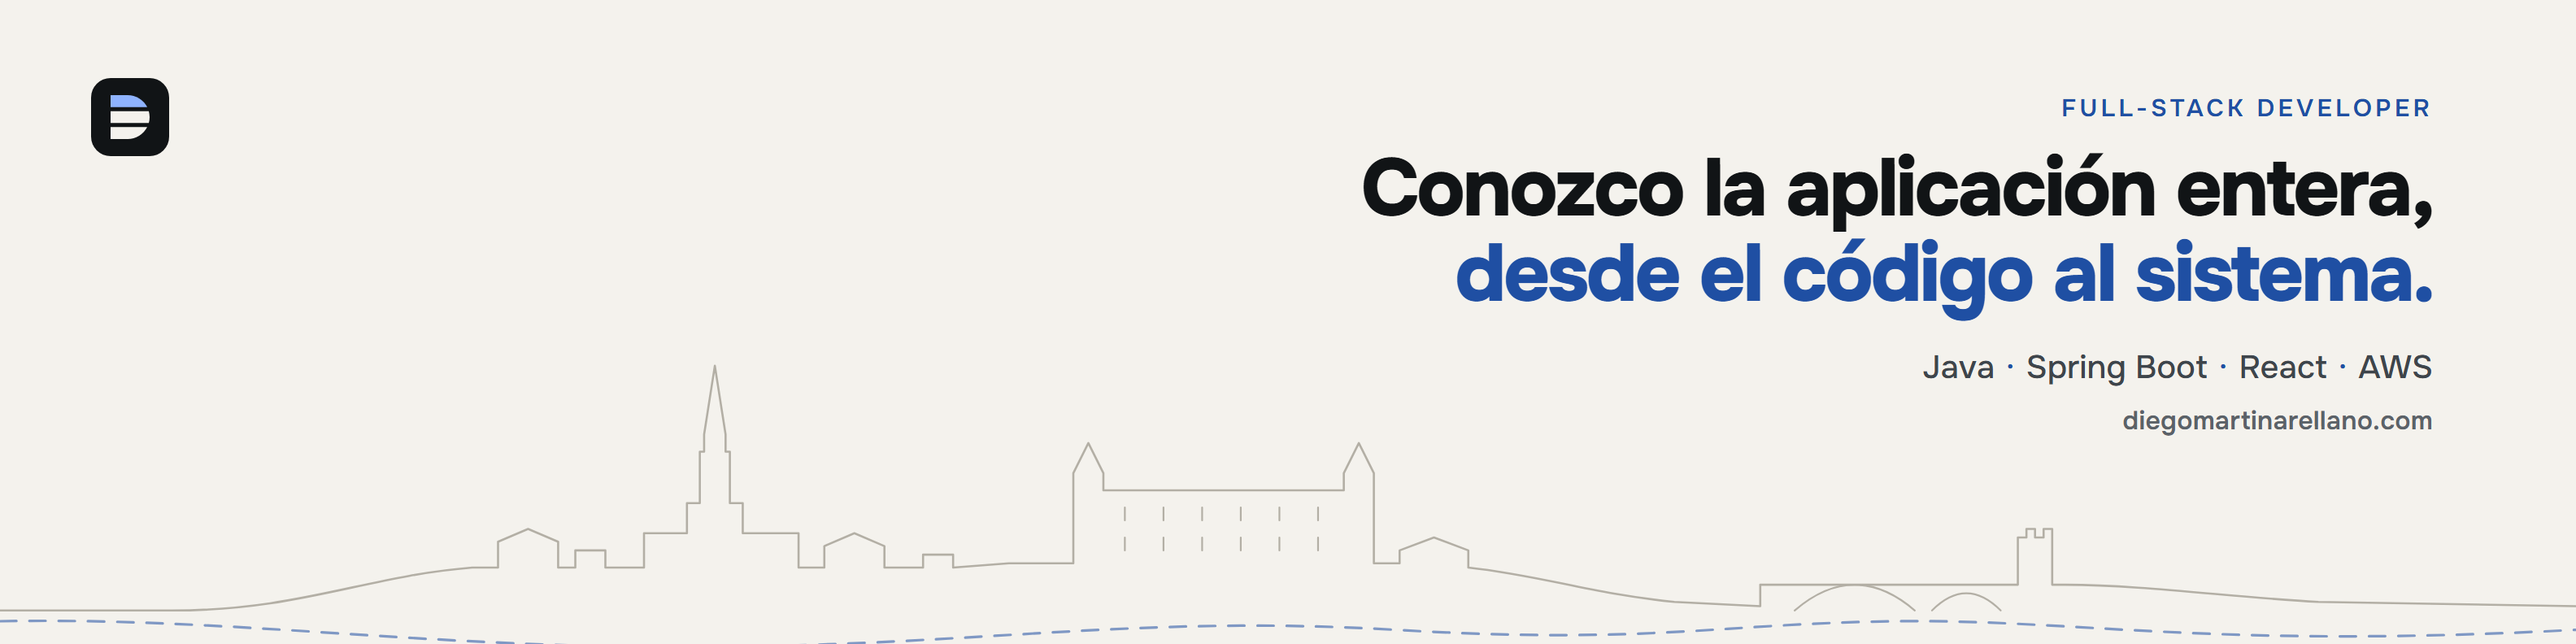
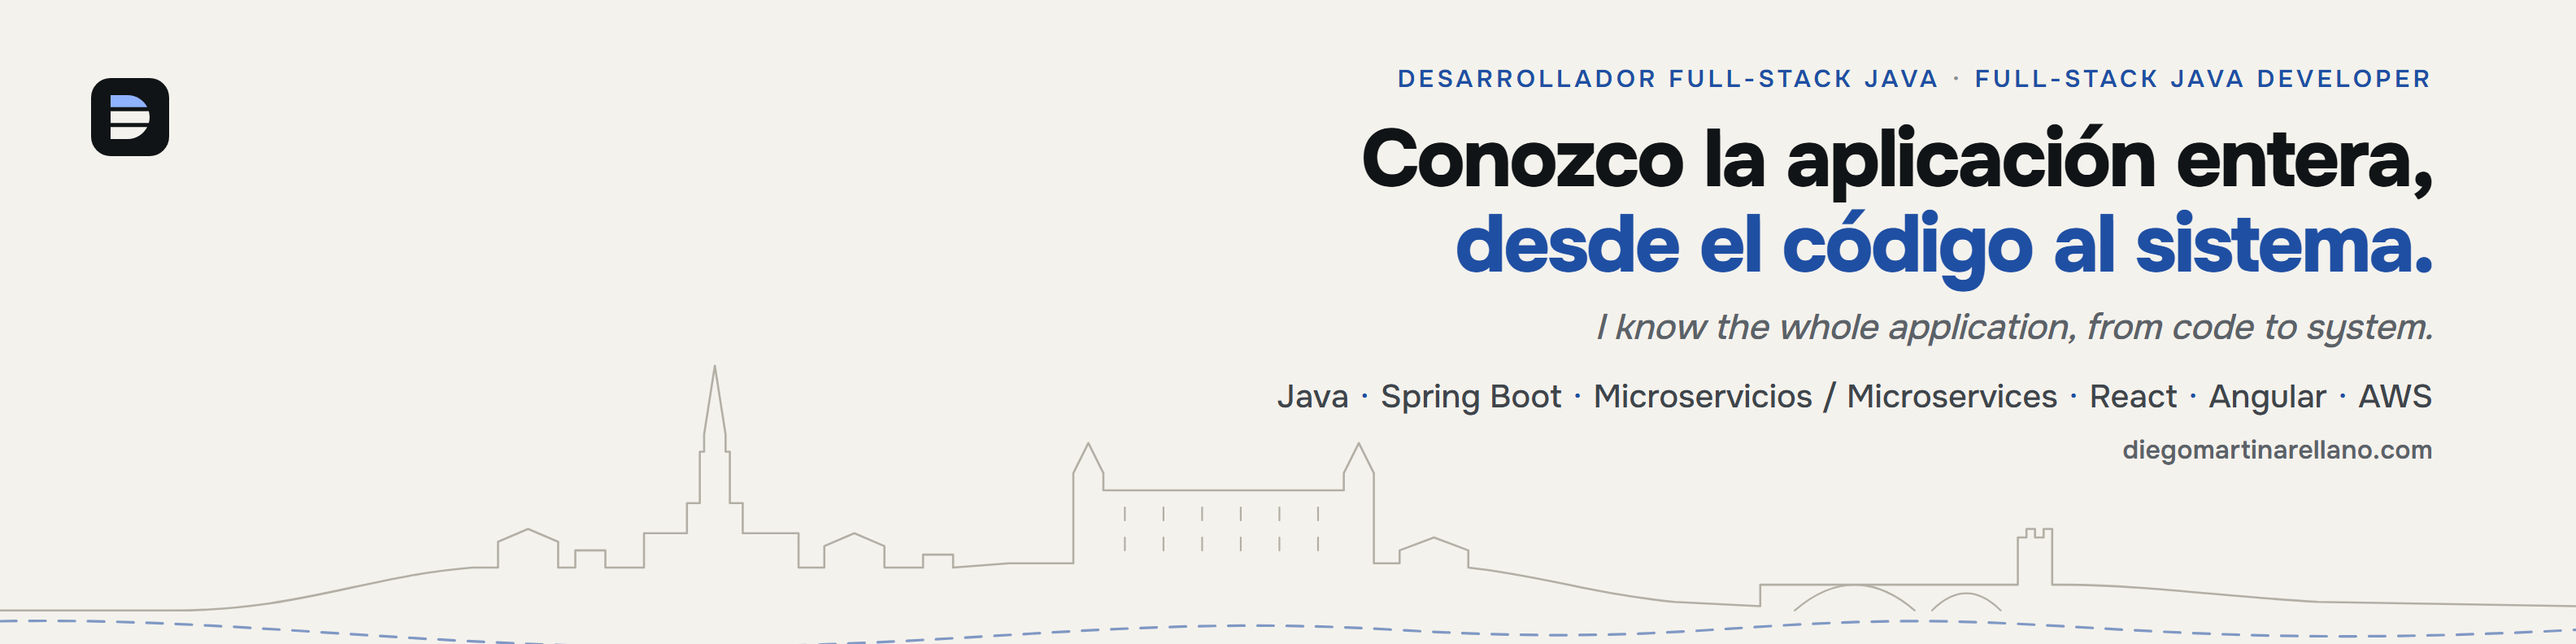
docs: portada bilingüe, JavaScript en tecnologías y frase de formación revisada

Changed region(s): [[0.5, 0.0909, 0.9688, 0.7273]]

diff --git a/README.md b/README.md
@@ -25,7 +25,7 @@ Me apasiona la tecnología. Estoy especializado en el desarrollo full-stack y la
 
 Desarrollo aplicaciones web con **Java, Spring Boot, React y AWS**. Actualmente trabajo en un proyecto de **Riesgos de Mercado de BBVA**. He trabajado en consultoría para banca, logística y administración pública, siempre en equipos ágiles.
 
-Me formo de manera continua para mejorar mis habilidades y adaptarme a nuevas herramientas y metodologías. Me motiva participar en proyectos de alto impacto.
+Me motiva participar en proyectos de alto impacto. Además, sigo formándome de manera continua para mejorar mis habilidades y adaptarme a nuevas herramientas y metodologías.
 
 <br>
 
@@ -34,7 +34,7 @@ Me formo de manera continua para mejorar mis habilidades y adaptarme a nuevas he
 | Área | Tecnologías |
 |---|---|
 | **Backend** | ![Java](https://img.shields.io/badge/Java-ED8B00?style=flat-square&logo=openjdk&logoColor=white) ![Spring Boot](https://img.shields.io/badge/Spring%20Boot-6DB33F?style=flat-square&logo=springboot&logoColor=white) ![Microservicios](https://img.shields.io/badge/Microservicios-30363D?style=flat-square) ![APIs REST](https://img.shields.io/badge/APIs%20REST-30363D?style=flat-square&logo=openapiinitiative&logoColor=white) ![Spring Security](https://img.shields.io/badge/Spring%20Security-6DB33F?style=flat-square&logo=springsecurity&logoColor=white) ![Hibernate / JPA](https://img.shields.io/badge/Hibernate%20%2F%20JPA-59666C?style=flat-square&logo=hibernate&logoColor=white) ![Maven](https://img.shields.io/badge/Maven-C71A36?style=flat-square&logo=apachemaven&logoColor=white) ![Node.js](https://img.shields.io/badge/Node.js-5FA04E?style=flat-square&logo=nodedotjs&logoColor=white) ![Python](https://img.shields.io/badge/Python-3776AB?style=flat-square&logo=python&logoColor=white) |
-| **Frontend** | ![React](https://img.shields.io/badge/React-20232A?style=flat-square&logo=react&logoColor=61DAFB) ![TypeScript](https://img.shields.io/badge/TypeScript-3178C6?style=flat-square&logo=typescript&logoColor=white) ![Angular](https://img.shields.io/badge/Angular-DD0031?style=flat-square&logo=angular&logoColor=white) ![HTML](https://img.shields.io/badge/HTML-E34F26?style=flat-square&logo=html5&logoColor=white) ![CSS](https://img.shields.io/badge/CSS-1572B6?style=flat-square&logo=css&logoColor=white) ![Tailwind CSS](https://img.shields.io/badge/Tailwind%20CSS-06B6D4?style=flat-square&logo=tailwindcss&logoColor=white) ![Astro](https://img.shields.io/badge/Astro-BC52EE?style=flat-square&logo=astro&logoColor=white) |
+| **Frontend** | ![React](https://img.shields.io/badge/React-20232A?style=flat-square&logo=react&logoColor=61DAFB) ![TypeScript](https://img.shields.io/badge/TypeScript-3178C6?style=flat-square&logo=typescript&logoColor=white) ![Angular](https://img.shields.io/badge/Angular-DD0031?style=flat-square&logo=angular&logoColor=white) ![JavaScript](https://img.shields.io/badge/JavaScript-F7DF1E?style=flat-square&logo=javascript&logoColor=black) ![HTML](https://img.shields.io/badge/HTML-E34F26?style=flat-square&logo=html5&logoColor=white) ![CSS](https://img.shields.io/badge/CSS-1572B6?style=flat-square&logo=css&logoColor=white) ![Tailwind CSS](https://img.shields.io/badge/Tailwind%20CSS-06B6D4?style=flat-square&logo=tailwindcss&logoColor=white) ![Astro](https://img.shields.io/badge/Astro-BC52EE?style=flat-square&logo=astro&logoColor=white) |
 | **Pruebas** | ![JUnit](https://img.shields.io/badge/JUnit-25A162?style=flat-square&logo=junit5&logoColor=white) ![Mockito](https://img.shields.io/badge/Mockito-78A641?style=flat-square) ![Postman](https://img.shields.io/badge/Postman-FF6C37?style=flat-square&logo=postman&logoColor=white) ![Swagger](https://img.shields.io/badge/Swagger-85EA2D?style=flat-square&logo=swagger&logoColor=black) ![Playwright](https://img.shields.io/badge/Playwright-2EAD33?style=flat-square) |
 | **Bases de datos** | ![PostgreSQL](https://img.shields.io/badge/PostgreSQL-4169E1?style=flat-square&logo=postgresql&logoColor=white) ![MySQL](https://img.shields.io/badge/MySQL-4479A1?style=flat-square&logo=mysql&logoColor=white) ![Oracle PL/SQL](https://img.shields.io/badge/Oracle%20PL%2FSQL-C74634?style=flat-square) |
 | **Cloud y DevOps** | ![AWS](https://img.shields.io/badge/AWS-232F3E?style=flat-square&logo=amazonwebservices&logoColor=FF9900) ![Docker](https://img.shields.io/badge/Docker-2496ED?style=flat-square&logo=docker&logoColor=white) ![Kubernetes](https://img.shields.io/badge/Kubernetes-326CE5?style=flat-square&logo=kubernetes&logoColor=white) ![CI/CD](https://img.shields.io/badge/CI%2FCD-30363D?style=flat-square&logo=githubactions&logoColor=white) ![Jenkins](https://img.shields.io/badge/Jenkins-D24939?style=flat-square&logo=jenkins&logoColor=white) ![Grafana](https://img.shields.io/badge/Grafana-F46800?style=flat-square&logo=grafana&logoColor=white) ![Nginx](https://img.shields.io/badge/Nginx-009639?style=flat-square&logo=nginx&logoColor=white) ![Linux](https://img.shields.io/badge/Linux-FCC624?style=flat-square&logo=linux&logoColor=black) |
